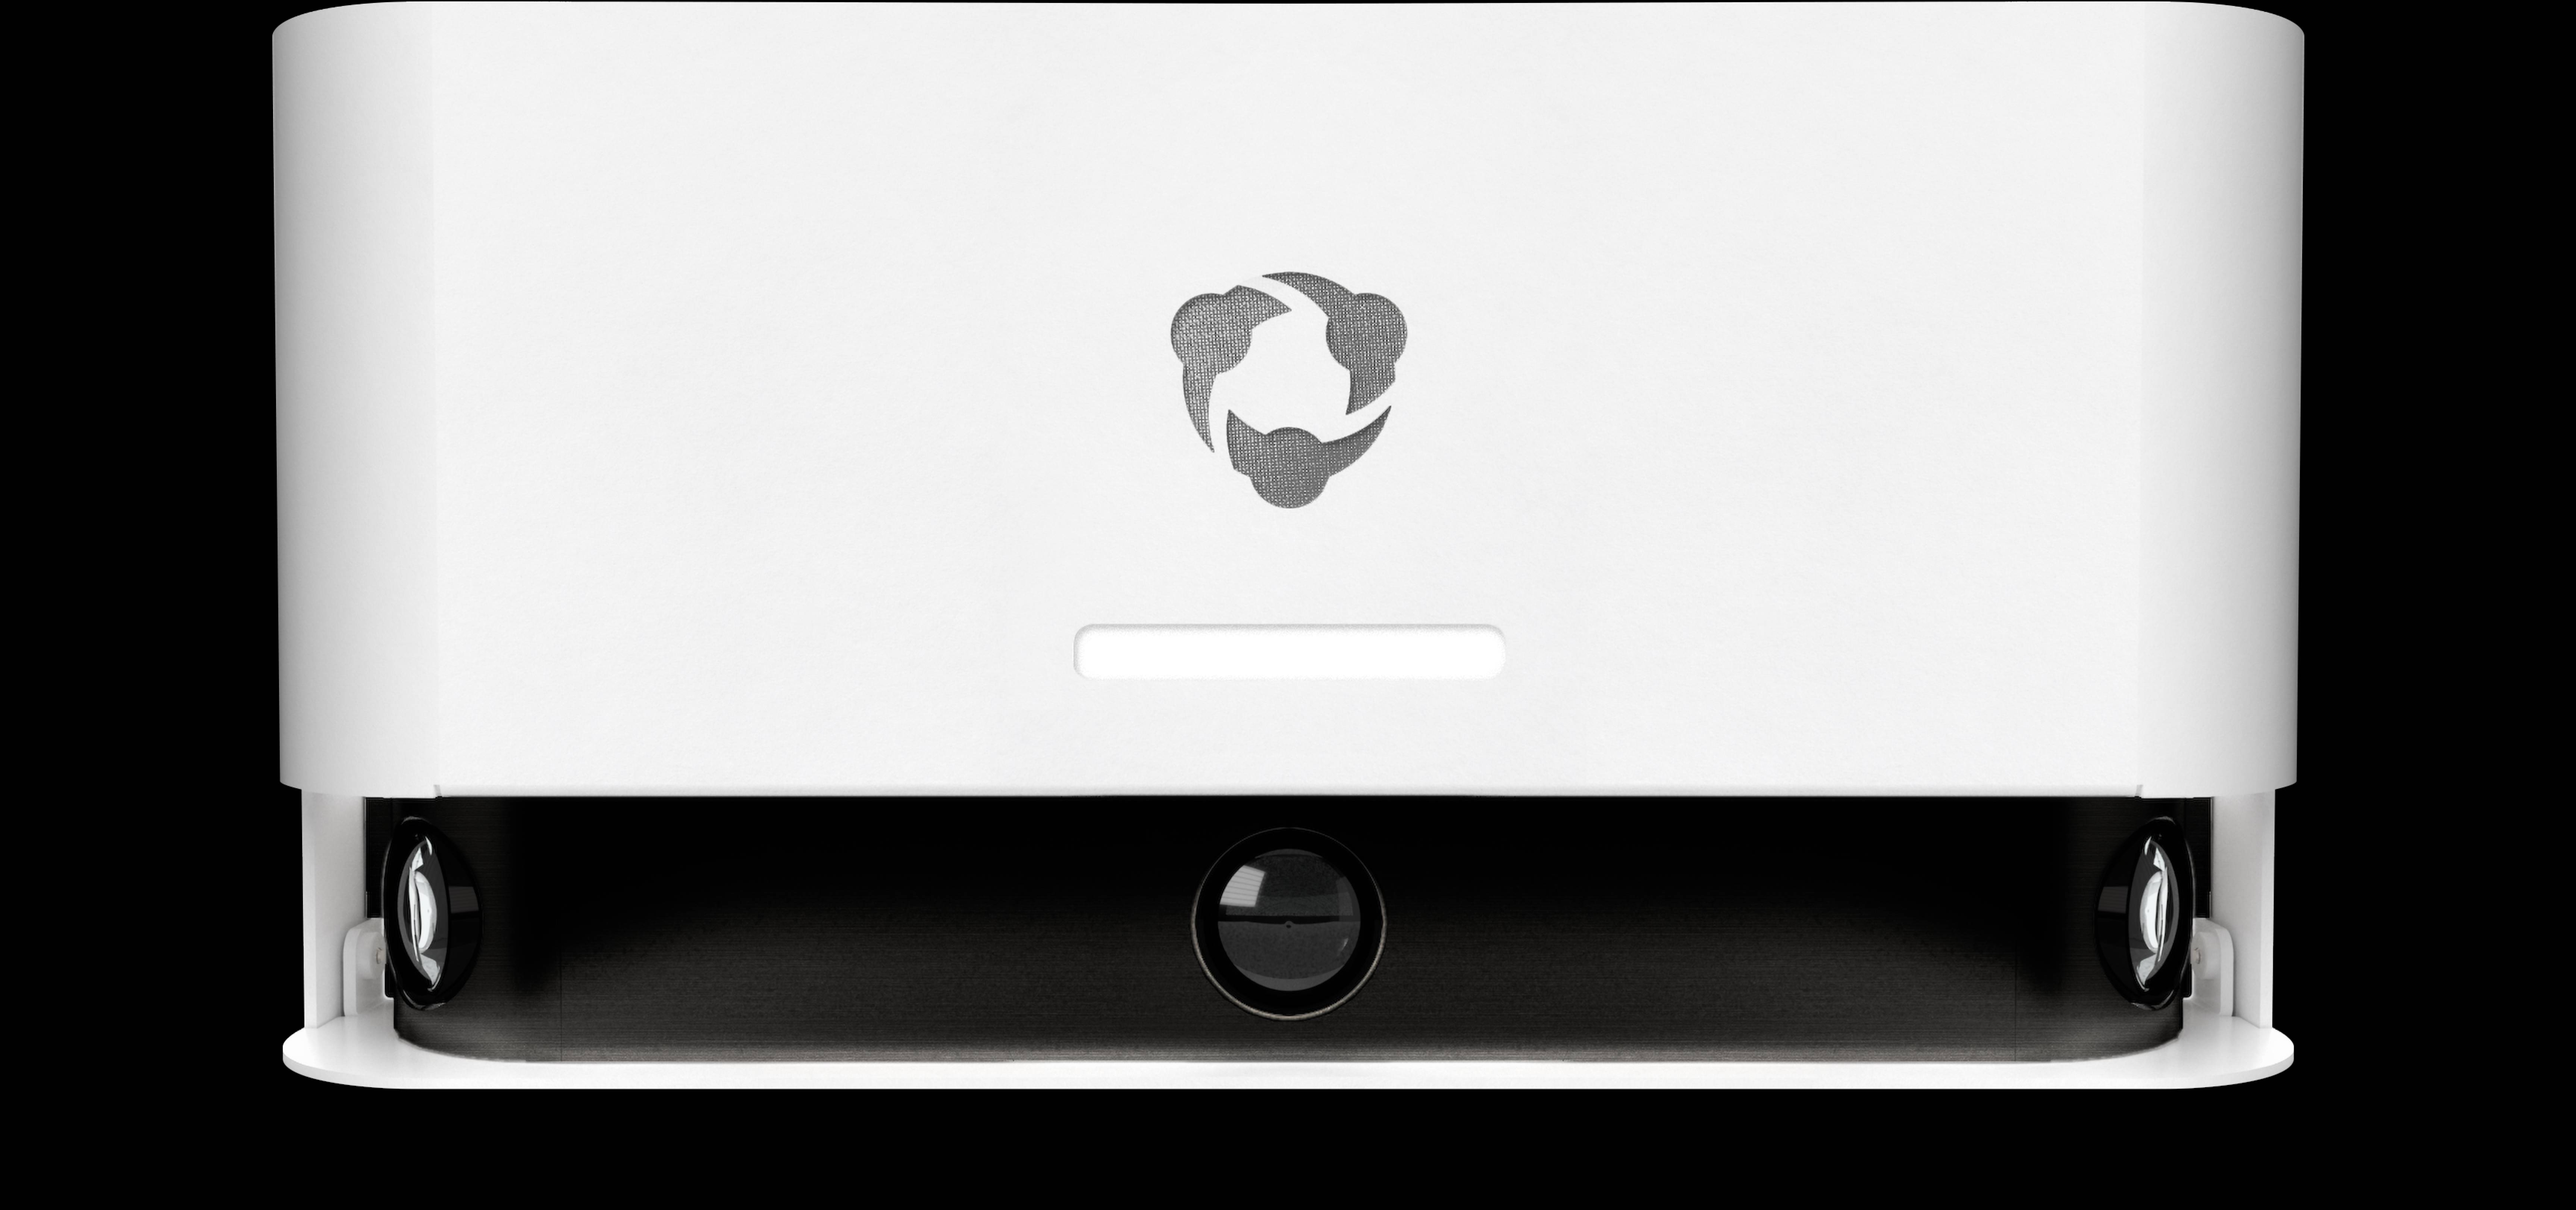
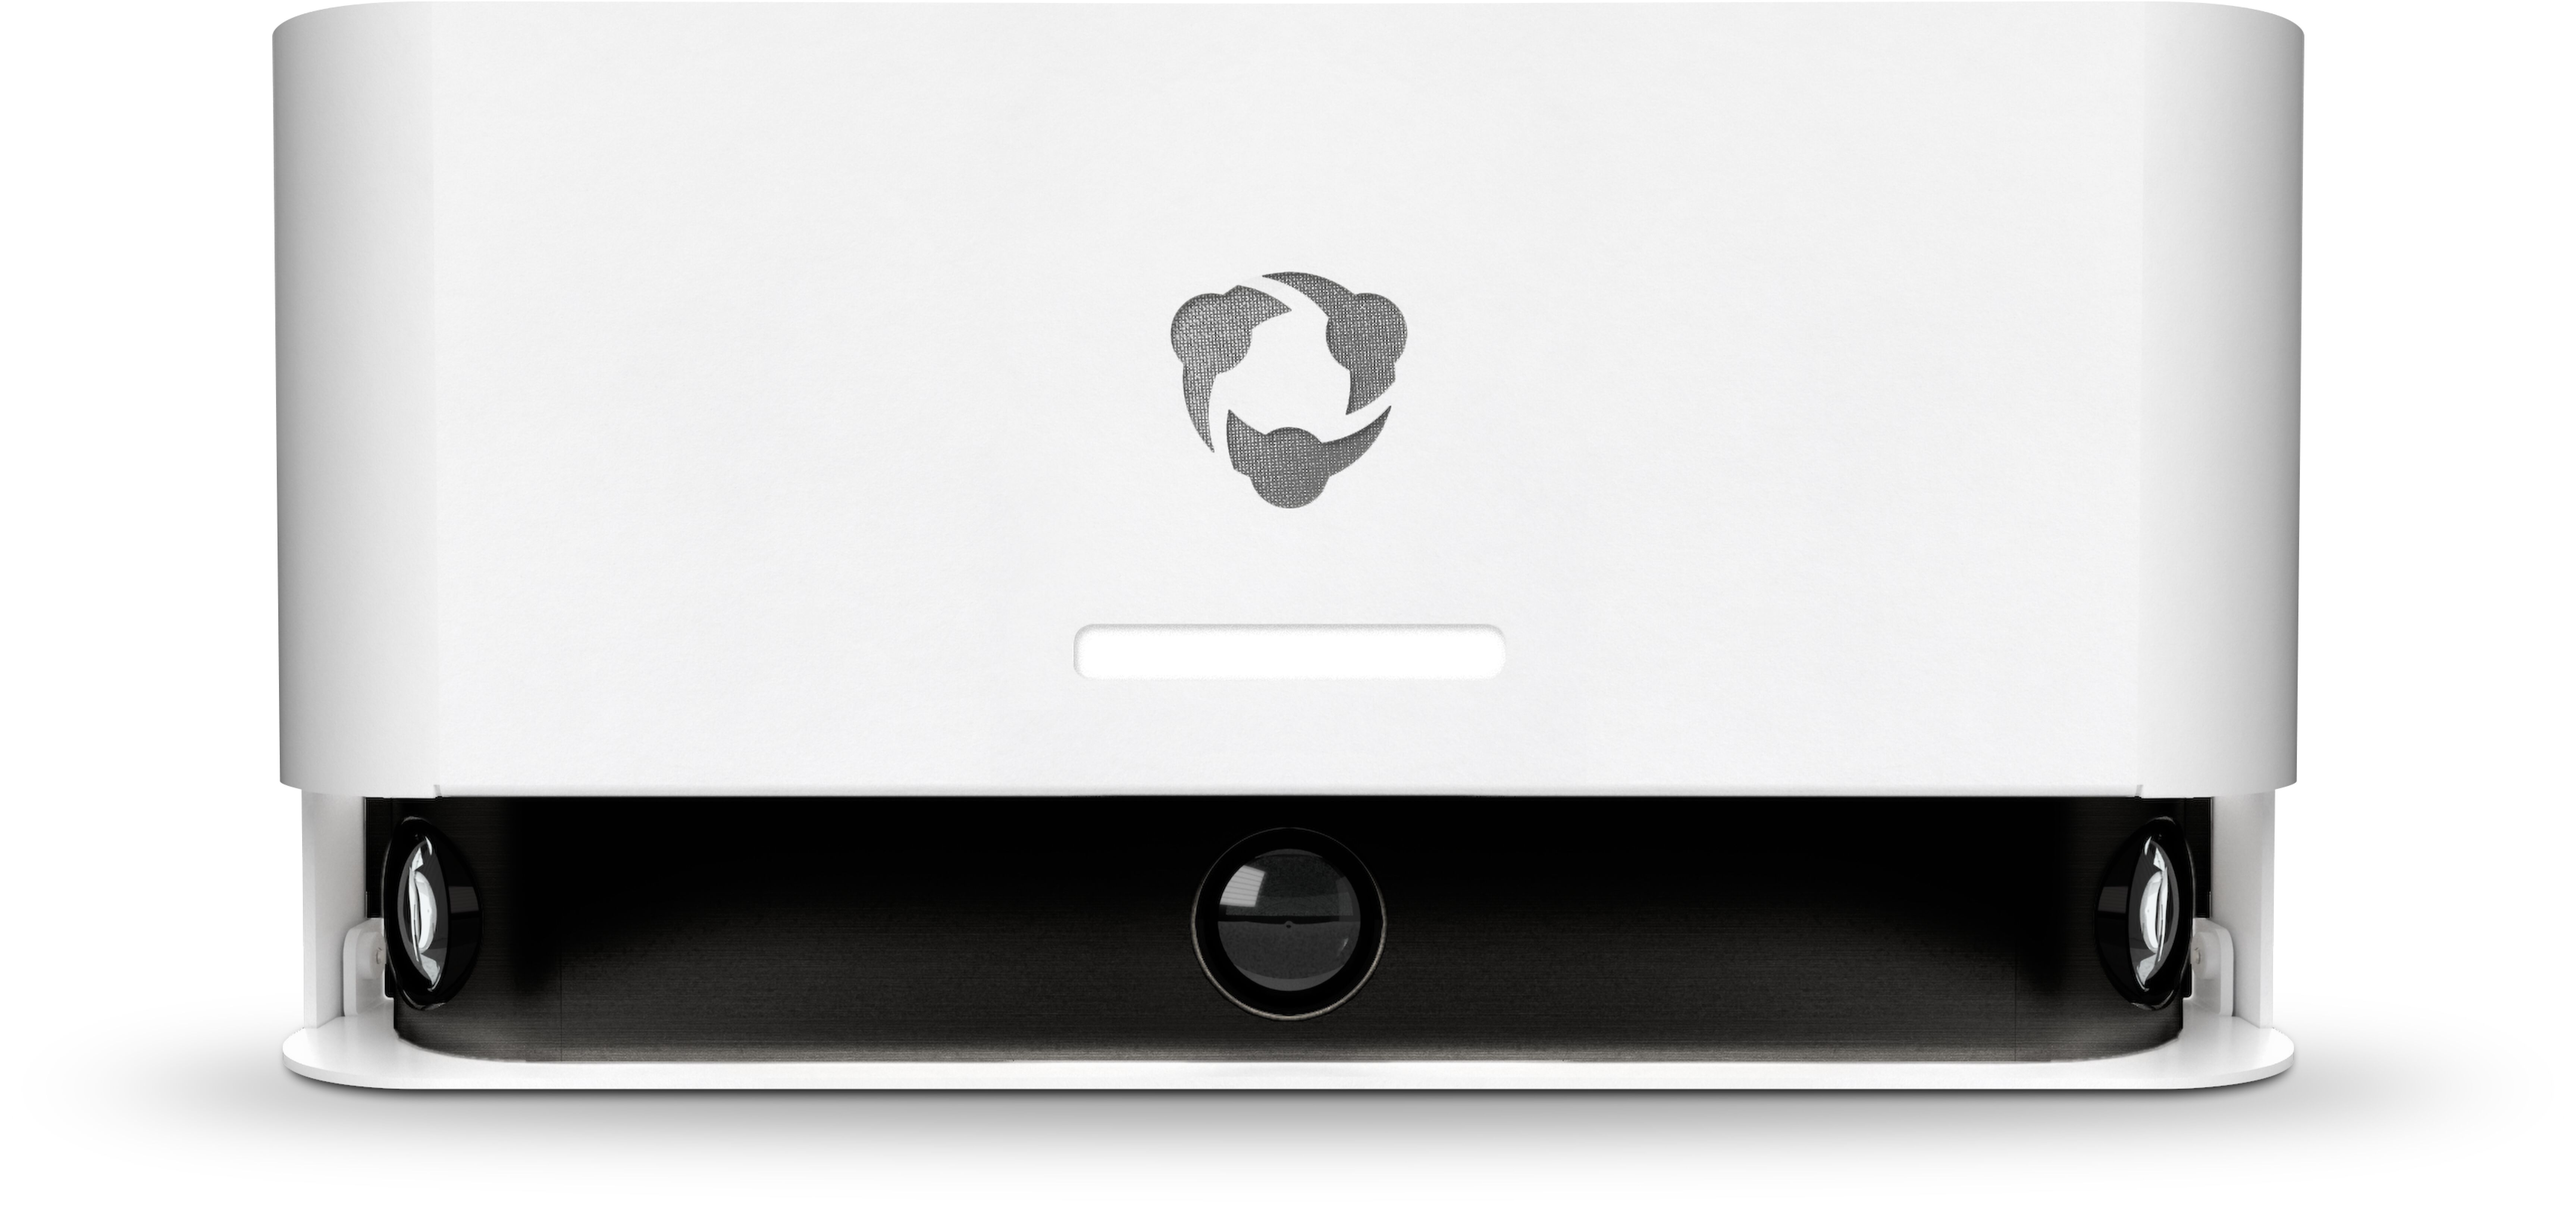
feat: update CamerasView to use JPG with baked white background
Switch to JPG with white background for clean display without dark edges.

diff --git a/nextjs-app/src/components/CamerasView.tsx b/nextjs-app/src/components/CamerasView.tsx
@@ -55,7 +55,7 @@ const MOCK_CAMERAS: Camera[] = [
     facility: 'Main Gym',
     venue: 'Main Gym',
     status: 'online',
-    image: '/images/focus-indoor.png',
+    image: '/images/focus-indoor.jpg',
     accessGrants: [],
   },
   {
